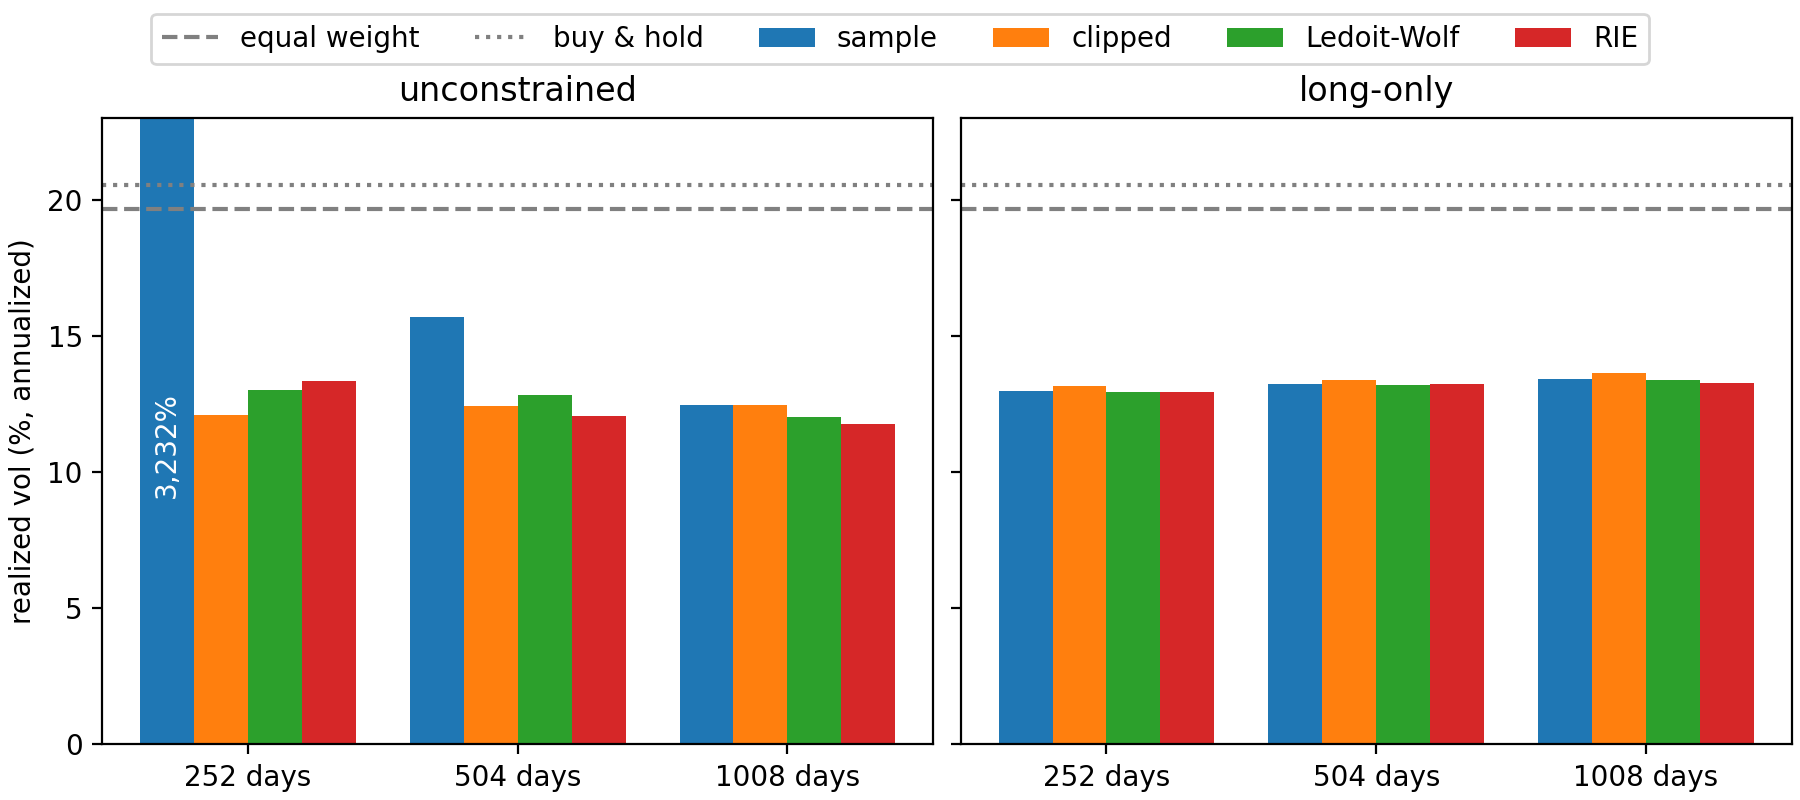
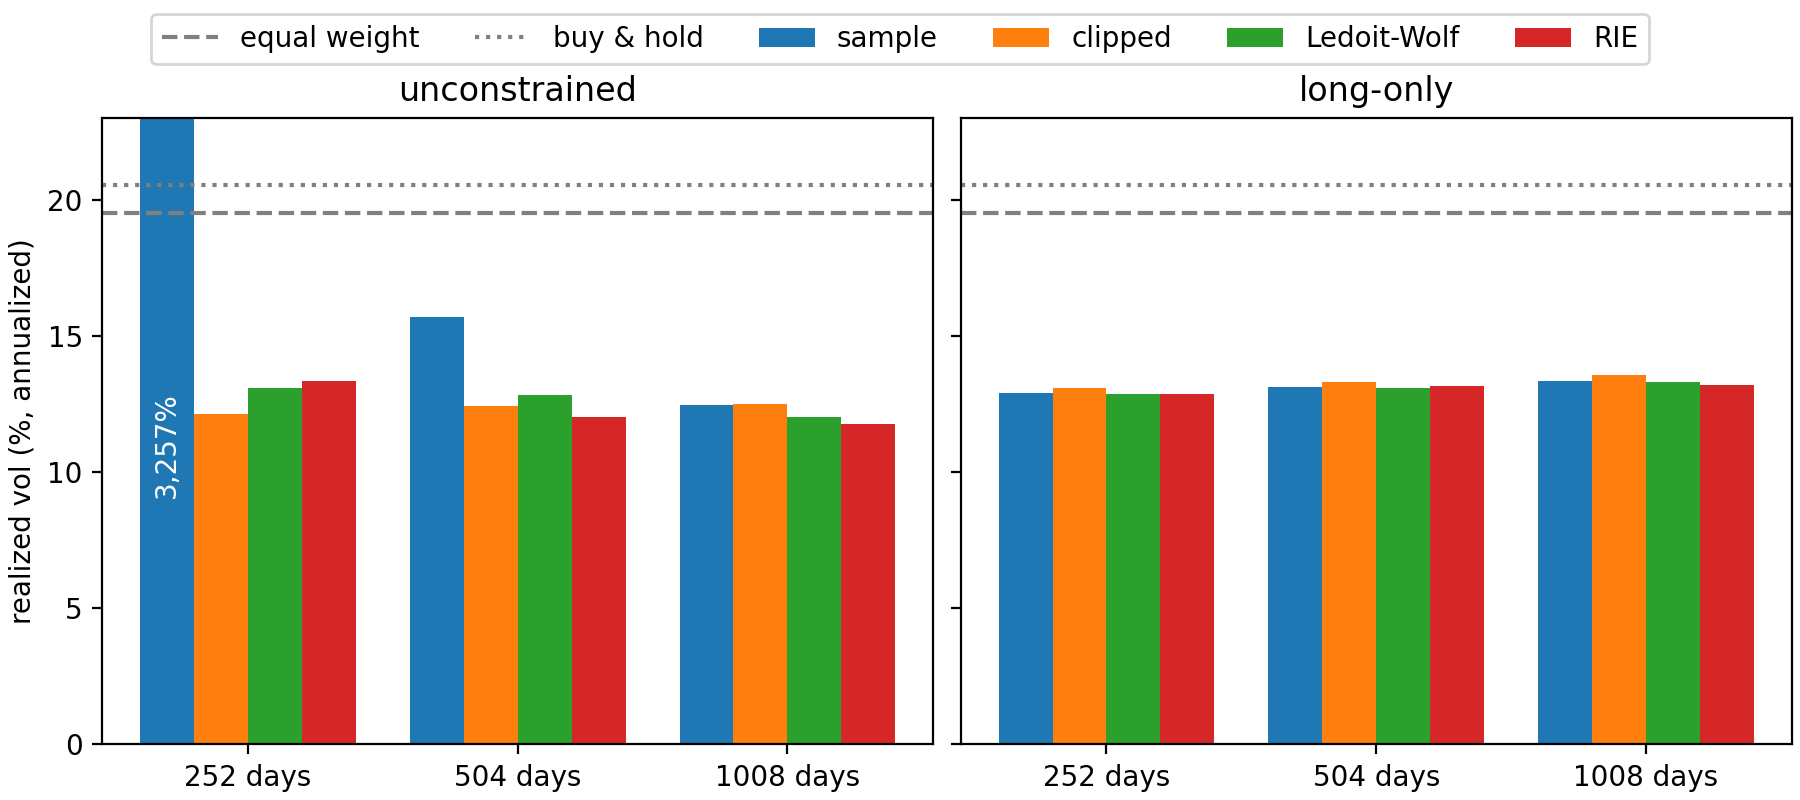
fix monthly portfolio rebalancing and refresh backtest figures

Changed region(s): [[0.0622, 0.25, 0.9956, 0.2812], [0.7778, 0.4688, 0.8089, 0.5], [0.7156, 0.4688, 0.7467, 0.5]]

diff --git a/scripts/run_backtest.py b/scripts/run_backtest.py
@@ -62,14 +62,22 @@ def run_backtest(
             w = np.linalg.solve(cov.values, np.ones(len(cov)))
             w = pd.Series(w / w.sum(), index=cov.index)
 
-        end = positions[i + 1] if i + 1 < len(positions) else len(idx)
-        hold = returns.iloc[p:end]
-        daily.append(hold @ w)
-
-        turnover = np.nan if w_prev is None else (w - w_prev).abs().sum()
+        turnover = np.nan if w_prev is None else 0.5 * (w - w_prev).abs().sum()
         predicted_vol = np.sqrt(max(w @ cov.values @ w, 0) * 252)
         stats.append((idx[p], turnover, predicted_vol))
-        w_prev = w
+
+        end = positions[i + 1] if i + 1 < len(positions) else len(idx)
+        hold = returns.iloc[p:end]
+
+        # Buy and hold between monthly rebalances
+        growth = (1 + hold).cumprod()
+        value = growth.mul(w, axis=1).sum(axis=1)
+        period_returns = value.pct_change()
+        period_returns.iloc[0] = value.iloc[0] - 1
+        daily.append(period_returns)
+
+        # Drifted weights immediately before the next rebalance
+        w_prev = w * growth.iloc[-1] / value.iloc[-1]
 
     daily = pd.concat(daily)
     stats = pd.DataFrame(stats, columns=["date", "turnover", "predicted_vol"])

diff --git a/scripts/plot_backtest.py b/scripts/plot_backtest.py
@@ -32,7 +32,7 @@ for ax, suffix, title in [
     ax.axhline(vol["index_proxy"], color="gray", ls=":", label="buy & hold")
     ax.set_xticks(range(3), [f"{T} days" for T in WINDOWS])
 axes[0].set_ylim(0, 23)  # the sample_252 bar runs off the top
-axes[0].text(-0.3, 11, "3,232%", rotation=90, ha="center", va="center", color="w")
+axes[0].text(-0.3, 11, "3,257%", rotation=90, ha="center", va="center", color="w")
 axes[0].set_ylabel("realized vol (%, annualized)")
 fig.legend(*axes[0].get_legend_handles_labels(), loc="outside upper center", ncol=6)
 Path("figs").mkdir(exist_ok=True)
